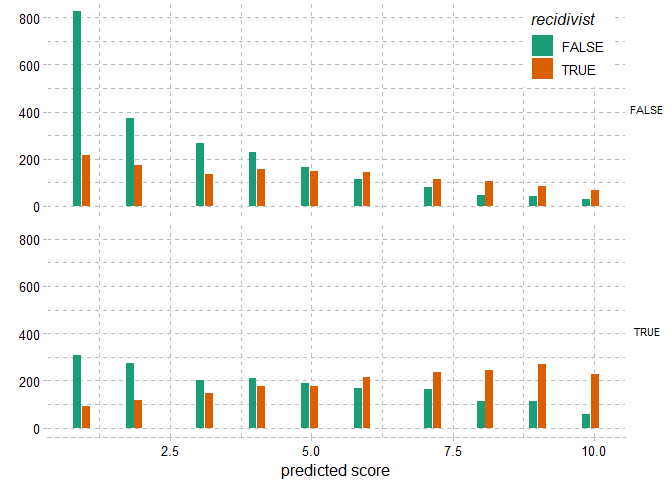
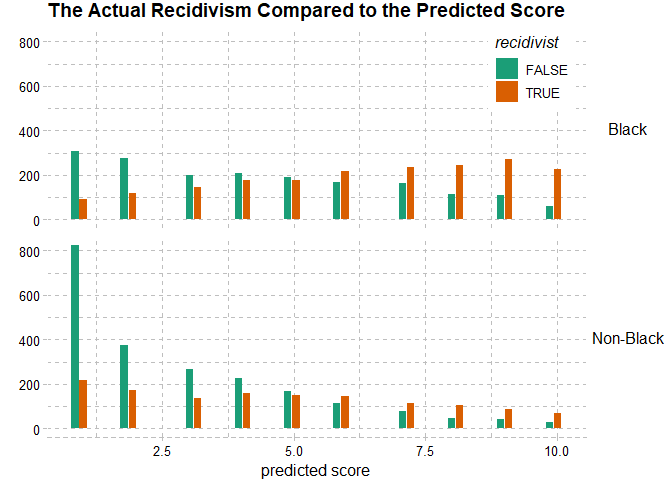
fixed graphs

diff --git a/report.html b/report.html
@@ -1056,19 +1056,23 @@ dat_nnn &lt;- read_csv(&#39;race2.csv&#39;)</code></pre>
 <div id="section-1" class="section level4">
 <h4>2</h4>
 <pre class="r"><code>dat_o %&gt;% 
+  mutate(sep = case_when(
+    race == &#39;African-American&#39; ~ &#39;Black&#39;,
+    race != &#39;African-American&#39; ~ &#39;Non-Black&#39;
+  )) %&gt;% 
   ggplot() +
-  aes(x = dat_o$decile_score.1, fill = dat_o$two_year_recid== 1) +
+  aes(x = dat_o$decile_score.1, fill = dat_o$two_year_recid == 1) +
   geom_histogram(position = &#39;dodge_2&#39;) +
-  facet_grid(race == &#39;African-American&#39;~.) +
+  facet_grid(sep~.) +
   ggthemes::theme_pander() +
-  theme(strip.text.y = element_text(size = 8, angle = 0),
+  theme(strip.text.y = element_text(size = 12, angle = 0),
         strip.background = element_blank()) +
   scale_fill_brewer(palette = &#39;Dark2&#39;) +
   guides(fill = guide_legend(title = &#39;recidivist&#39;, label.position = &#39;right&#39;)) +
-  labs(x = &#39;predicted score&#39;, y = &#39;&#39;) +
+  labs(title = &#39;The Actual Recidivism Compared to the Predicted Score&#39;, x = &#39;predicted score&#39;, y = &#39;&#39;) +
   theme(axis.line.x = element_line(linetype = &#39;dashed&#39;, colour = &#39;Gray&#39;),
         legend.position = c(0.9,0.9)) </code></pre>
[2 lines of base64/hex data omitted]
 </div>
 <div id="section-2" class="section level4">
 <h4>3</h4>
@@ -1078,8 +1082,8 @@ dat_nnn &lt;- read_csv(&#39;race2.csv&#39;)</code></pre>
   geom_smooth(method = &#39;glm&#39;, method.args = list(family = &#39;binomial&#39;), se = F, linetype = &#39;dashed&#39;) +
   geom_point() +
   ggthemes::theme_pander() +
-  labs(title=&#39;The Probability of a Criminal Recidivating&#39;, y = &#39;probability&#39;, x = &#39;Predicted Score&#39;)</code></pre>
[1 lines of base64/hex data omitted]
+  labs(title=&#39;The Probability of a Criminal Recidivating&#39;, subtitle = &#39;According to their algorithm\&#39;s &#39;, y = &#39;probability&#39;, x = &#39;Predicted Score&#39;)</code></pre>
[1 lines of base64/hex data omitted]
 <pre class="r"><code>dat_o %&gt;% 
   filter(race == &#39;African-American&#39;) %&gt;% 
   ggplot() +

diff --git a/report.md b/report.md
@@ -696,16 +696,20 @@ dat_o %>%
 
 ```r
 dat_o %>% 
+  mutate(sep = case_when(
+    race == 'African-American' ~ 'Black',
+    race != 'African-American' ~ 'Non-Black'
+  )) %>% 
   ggplot() +
-  aes(x = dat_o$decile_score.1, fill = dat_o$two_year_recid== 1) +
+  aes(x = dat_o$decile_score.1, fill = dat_o$two_year_recid == 1) +
   geom_histogram(position = 'dodge_2') +
-  facet_grid(race == 'African-American'~.) +
+  facet_grid(sep~.) +
   ggthemes::theme_pander() +
-  theme(strip.text.y = element_text(size = 8, angle = 0),
+  theme(strip.text.y = element_text(size = 12, angle = 0),
         strip.background = element_blank()) +
   scale_fill_brewer(palette = 'Dark2') +
   guides(fill = guide_legend(title = 'recidivist', label.position = 'right')) +
-  labs(x = 'predicted score', y = '') +
+  labs(title = 'The Actual Recidivism Compared to the Predicted Score', x = 'predicted score', y = '') +
   theme(axis.line.x = element_line(linetype = 'dashed', colour = 'Gray'),
         legend.position = c(0.9,0.9)) 
 ```
@@ -721,7 +725,7 @@ dat_o %>%
   geom_smooth(method = 'glm', method.args = list(family = 'binomial'), se = F, linetype = 'dashed') +
   geom_point() +
   ggthemes::theme_pander() +
-  labs(title='The Probability of a Criminal Recidivating', y = 'probability', x = 'Predicted Score')
+  labs(title='The Probability of a Criminal Recidivating', subtitle = 'According to their algorithm\'s ', y = 'probability', x = 'Predicted Score')
 ```
 
 ![](report_files/figure-html/unnamed-chunk-8-1.png)<!-- -->
